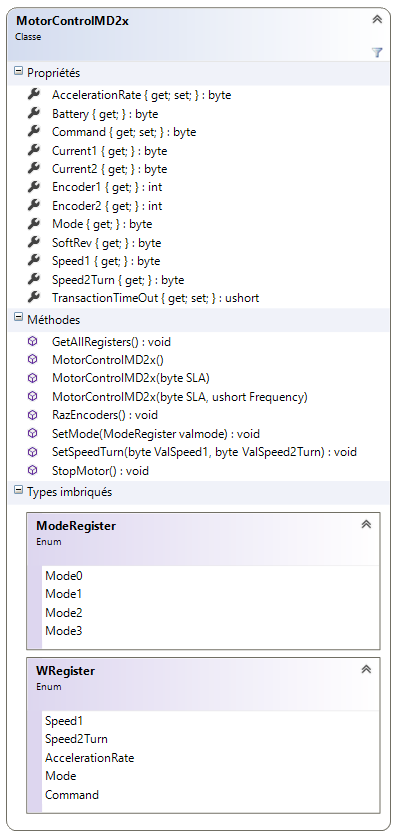
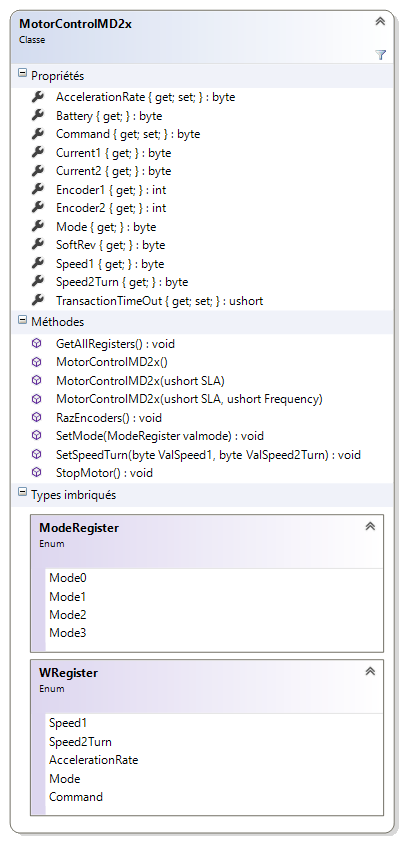
updating v1.4.4.1

Changed region(s): [[0.0, 0.0, 1.0, 1.0]]

diff --git a/MD25/MD25/md25.cs b/MD25/MD25/md25.cs
@@ -101,7 +101,7 @@ namespace testMicrotoolsKit
                 /// This constructor allows user to specify the Slave Address (bus frequency = 100Khz)
                 /// </summary>
                 /// <param name="SLA">MD25(@=0x58 to 0x5F), 0x58 by default (see datasheet)</param>
-                public MotorControlMD2x(byte SLA)
+                public MotorControlMD2x(UInt16 SLA)
                 {
                     sla = SLA;
                     config = new I2CDevice.Configuration(SLA, 100);
@@ -112,7 +112,7 @@ namespace testMicrotoolsKit
                 /// </summary>
                 /// <param name="SLA">MD25(@=0x58 to 0x5F), 0x58 by default (see datasheet)</param>
                 /// <param name="Frequency">100khz to 400kHz, 100kHz by default</param>
-                public MotorControlMD2x(byte SLA, UInt16 Frequency)
+                public MotorControlMD2x(UInt16 SLA, UInt16 Frequency)
                 {
                     sla = SLA;
                     config = new I2CDevice.Configuration(SLA, Frequency);
